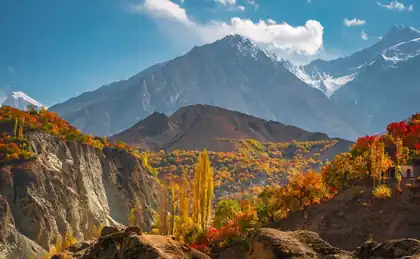
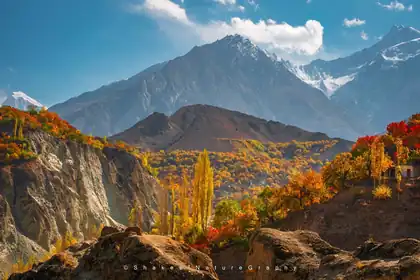
Nagar: a sharp new autumn cover photo (orchards below the snow peaks, from the original) and the gallery's hillside photo remade
Claude-Session: https://claude.ai/code/session_016igYTkJfUr5gXwGpezEfdx

diff --git a/app/src/site/Hero.tsx b/app/src/site/Hero.tsx
@@ -30,7 +30,7 @@ export const SLIDES: Record<SeasonId, { src: string; place: string; id: string; 
     { src: '/photos/autumn-hunza.webp', place: 'Hunza and Rakaposhi', id: 'hunza', pos: '50% 40%' },
     { src: '/photos/shangrila-autumn.webp', place: 'Shangrila, Skardu', id: 'skardu' },
     { src: '/photos/ghowari-poplar-avenue.webp', place: 'Ghowari poplars, Khaplu', id: 'khaplu' },
-    { src: '/photos/nagar-autumn-poplars.webp', place: 'Nagar Valley', id: 'nagar' },
+    { src: '/photos/hunza-autumn-peaks.webp', place: 'Nagar Valley', id: 'nagar' },
     { src: '/photos/naran-autumn-road.webp', place: 'The road into Naran', id: 'naran' }
   ],
   winter: [

diff --git a/app/public/sw.js b/app/public/sw.js
@@ -3,7 +3,7 @@
 // - /api trip data: network first, falling back to the offline copy.
 // - Map tiles, style and glyphs saved by "Download for offline" (in the
 //   safarco-offline cache) are served from there first; weather is network first.
-const SHELL = 'safarco-shell-v53';
+const SHELL = 'safarco-shell-v54';
 const OFFLINE = 'safarco-offline';
 
 self.addEventListener('install', e => {
